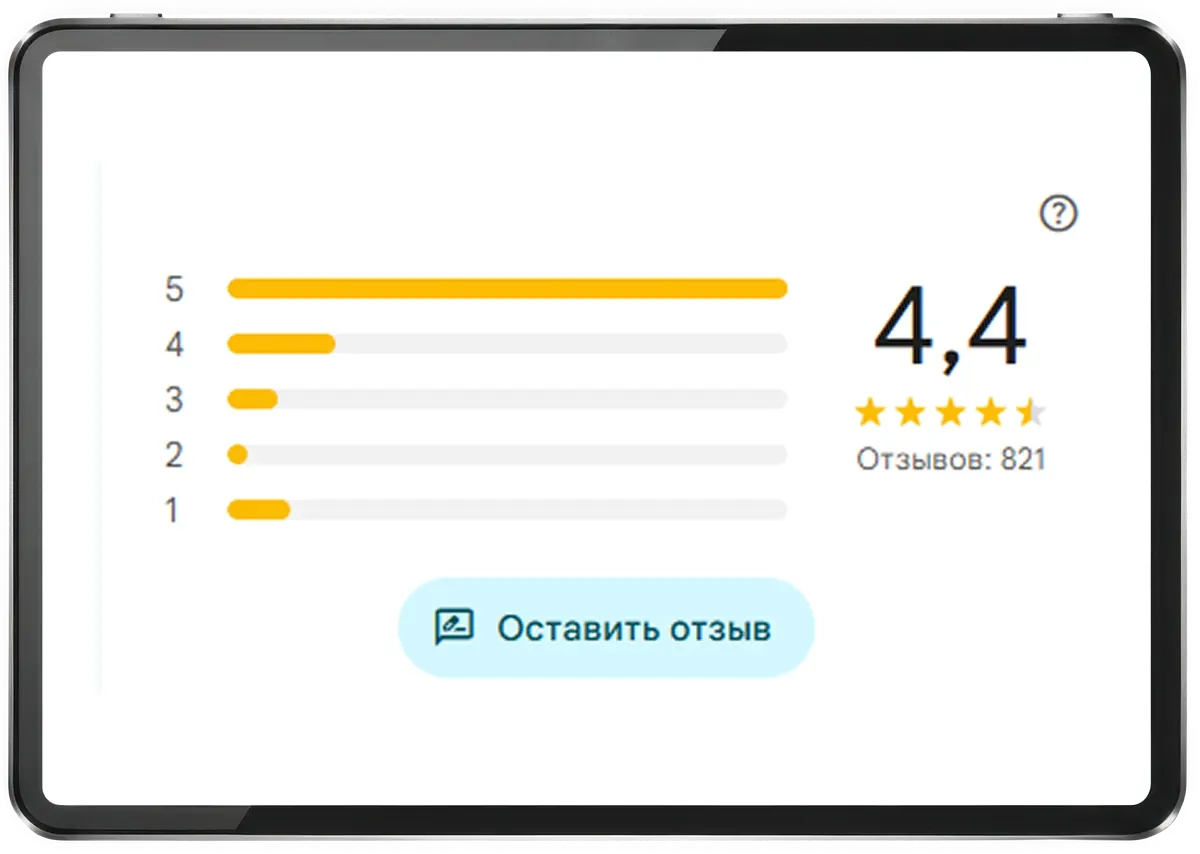
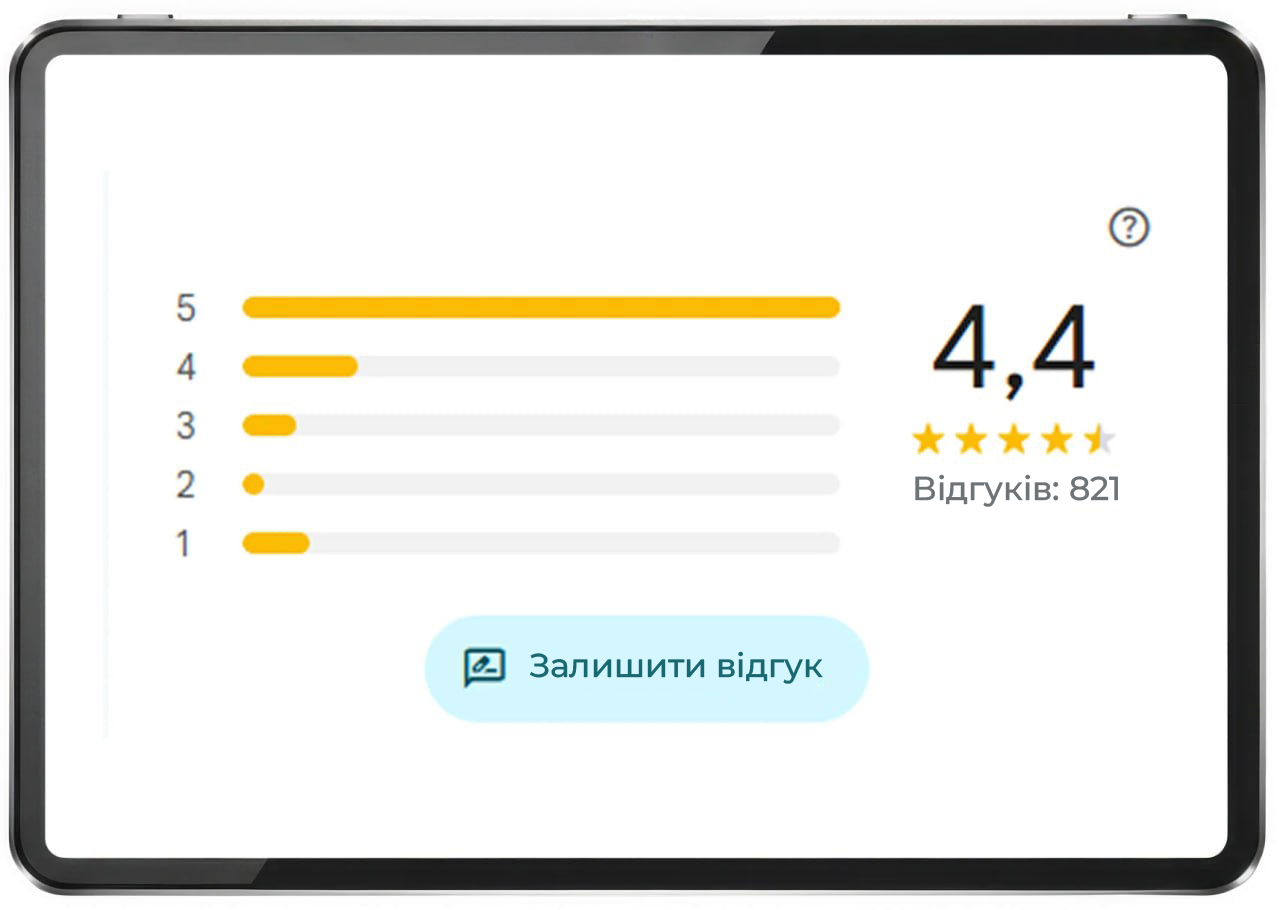
update

Changed region(s): [[0.4008, 0.7002, 0.6475, 0.7611], [0.7092, 0.5176, 0.8942, 0.5785]]

diff --git a/src/Components/Footer/style.css b/src/Components/Footer/style.css
@@ -12,7 +12,8 @@
 }
 
 .footer-logo img {
-  width: 100%;
+  width: 243px;
+  height: 62px;
 }
 
 .footer-bottom-content {
@@ -119,12 +120,12 @@
     padding: 16px 0;
   }
 
-  .footer-logo{
+  .footer-logo {
     max-width: 160px;
     margin-bottom: 15px;
   }
 
-  .footer{
+  .footer {
     padding: 50px 12px 0;
   }
 }

diff --git a/src/Components/Testimonials/style.css b/src/Components/Testimonials/style.css
@@ -56,7 +56,11 @@
   transition:
     transform 0.3s ease,
     box-shadow 0.3s ease;
-  height: max-content;
+  height: 100%;
+}
+
+.testimonials-card img{
+  height: 100%;
 }
 
 .testimonials-card:hover {

diff --git a/src/Components/About-us/AboutUs.tsx b/src/Components/About-us/AboutUs.tsx
@@ -9,7 +9,7 @@ export function AboutUs() {
         </div>
         <div className="about-us-text">
           <h2 className="about-us-text-title" id="about-title">
-            Про нас - честно і без прикрас
+            Про нас - чесно і без прикрас
           </h2>
           <div className="line"></div>
           <div className="about-us-text-content">

diff --git a/src/Components/Advantages/Advantages.tsx b/src/Components/Advantages/Advantages.tsx
@@ -92,7 +92,7 @@ export function Advantages({ onOpenContactForm }: AdvantagesProps) {
         </button>
         <div className="advantages-underbutton-text">
           <GoShieldCheck />
-          <p>Без зобов'язань. Консультація та прорахунок безкоштовно.</p>
+          <p>Консультація та прорахунок безкоштовно.</p>
         </div>
       </div>
     </section>

diff --git a/src/Components/Hero/Hero.tsx b/src/Components/Hero/Hero.tsx
@@ -38,7 +38,7 @@ export function Hero({ onOpenContactForm }: HeroProps) {
               className="hero-advantage-img"
             />
             <p className="hero-advantage-text">
-              Індивідуальний проект під ваш простір
+              Індивідуальний проєкт під ваш простір
             </p>
           </div>
           <div className="hero-advantages-line"></div>